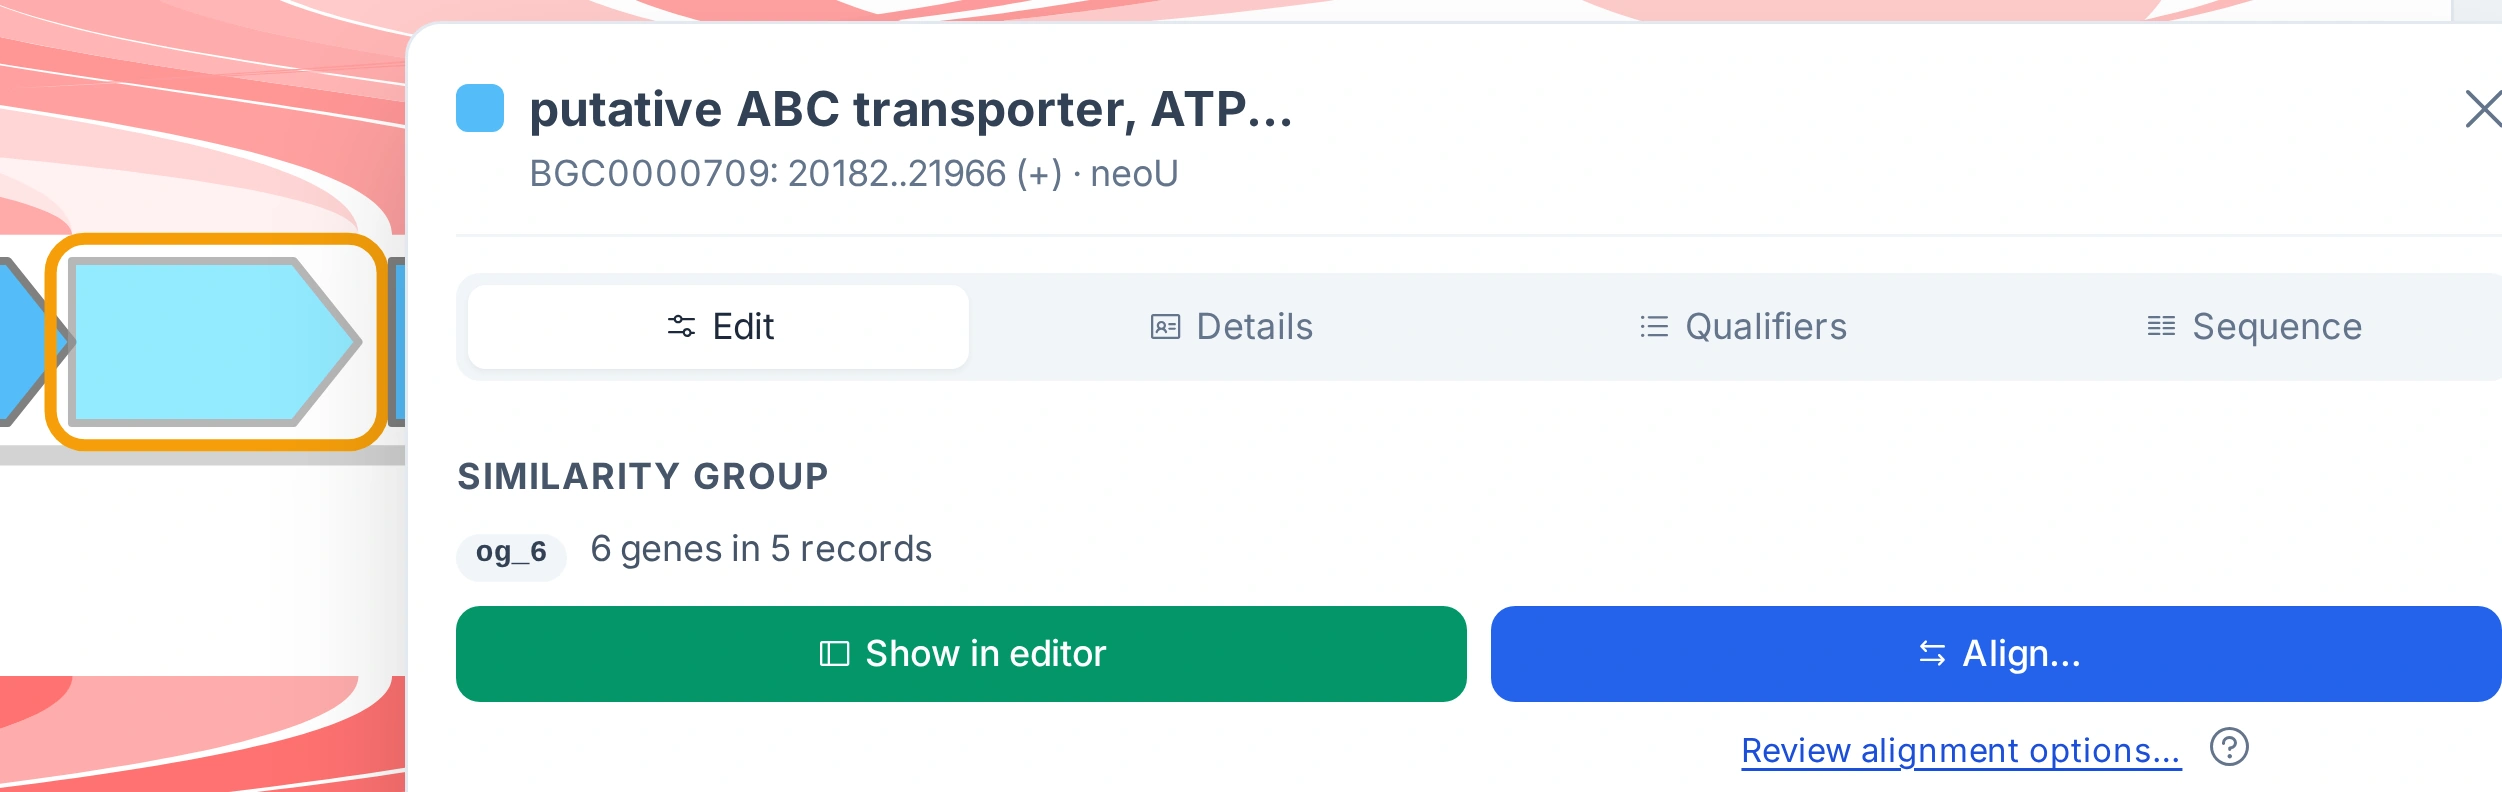
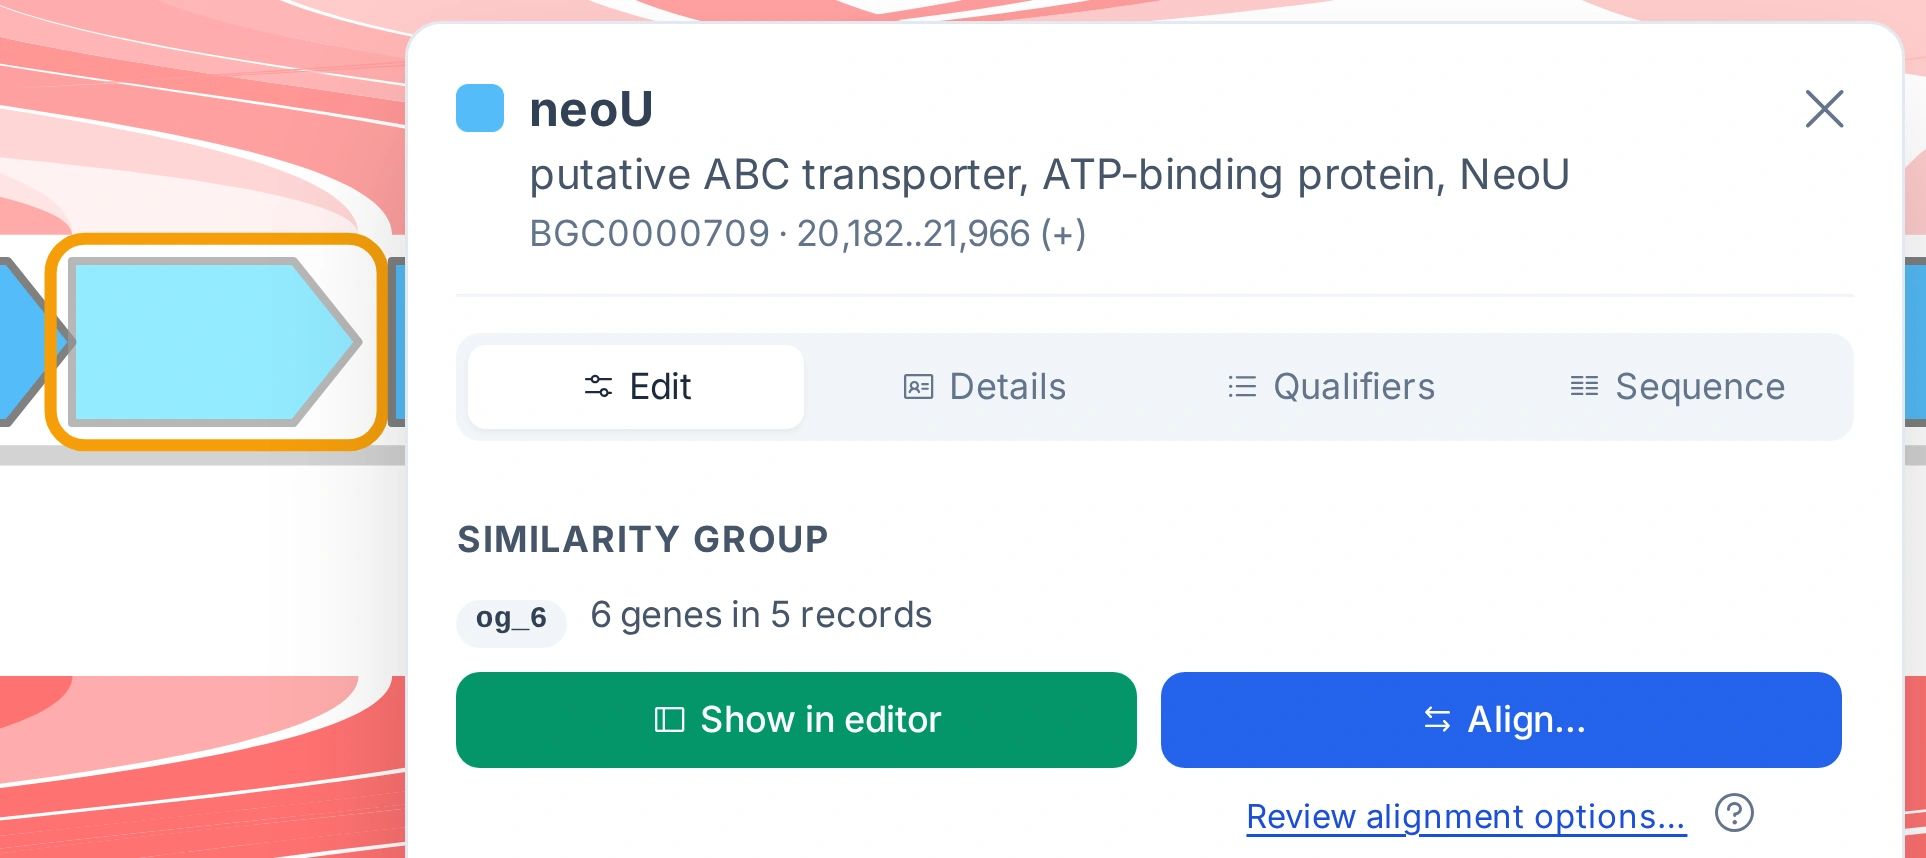
Show the whole Align popup in the BGC tutorial's og_6 capture
The capture of `manual-07-01-align-og6.webp` set the popup width through a
size state that is not on `window.__GBDRAW_APP__`, so the popup stayed 720 px
wide, left the 1280 px window, and the crop ended at the window edge inside
the close button and the Align button. The recipe now sets the popup's own
width, crops from the whole popup header, and stops when the popup does not
fit the window. The image is recaptured with the current popup header (gene,
product, record and location) and its register row is accepted.

diff --git a/docs/internal/WEB_GALLERY_OPERATION_SCREENSHOT_REGISTER.md b/docs/internal/WEB_GALLERY_OPERATION_SCREENSHOT_REGISTER.md
@@ -14,7 +14,7 @@ Recaptured at the tool default scale; an image is kept only when it visibly diff
 | --- | --- | --- | --- | --- |
 | `vibrio-harveyi-group-collinear` | `manual-06-01-search-dnaa.webp`, `manual-07-01-search-rctb.webp` | Recapture; recipe corrected | Search bar with **Regular expression** and the status `1 of 2 matches`; the replay waits on that status; the open feature popup is closed first | Accepted; no popup fragment |
 | `vibrio-harveyi-group-collinear` | `manual-06-02-rotate-start.webp` | Recapture; text corrected | **Edit** tab: header gene, product, record and location; **Similarity group** above **Layout**; **Apply when I Generate** and **Apply now** | Accepted |
-| `BGC0000708-BGC0000713` | `manual-07-01-align-og6.webp` | Recapture | neoU popup with gene and product in the header, **Similarity group**, **Align…**, **Review alignment options…** | Pending: the committed image is the short-feature-height capture of the size-boundary section below, which shows the earlier popup |
+| `BGC0000708-BGC0000713` | `manual-07-01-align-og6.webp` | Recapture; recipe corrected | neoU popup with gene and product in the header, **Similarity group**, **Align…**, **Review alignment options…**; the recipe sets the popup's own width to 500 px (the size state it wrote before is not on `window.__GBDRAW_APP__`, so the popup stayed 720 px wide and left the window), crops from the whole popup header, and stops when the popup does not fit the window | Accepted at 1926x858: close button, tabs, and **Align…** inside the crop |
 | `BGC0000708-BGC0000713` | `manual-12-01-feature-popup.webp` | Recapture; recipe corrected | **Qualifiers** tab as a name and value list (no row borders): the recipe marks each name and the value beside it and scrolls the name to the top | Accepted |
 | `BGC0000708-BGC0000713` | `manual-11-01-orthogroup-popup.webp` | Keep | Similarity-group popup unchanged apart from sub-percent noise | Committed bytes kept |
 | `HmmtDNA_ATskew` | `post-02-01-legend-editor.webp` | Recapture; recipe added | Exact Session; **Editor** drawer open on **Legend**; list scrolled to the AT skew rows; crop from the drawer header to the last row | Accepted; the AT skew swatches show the GC skew colors (Product bug, see the handoff) |
